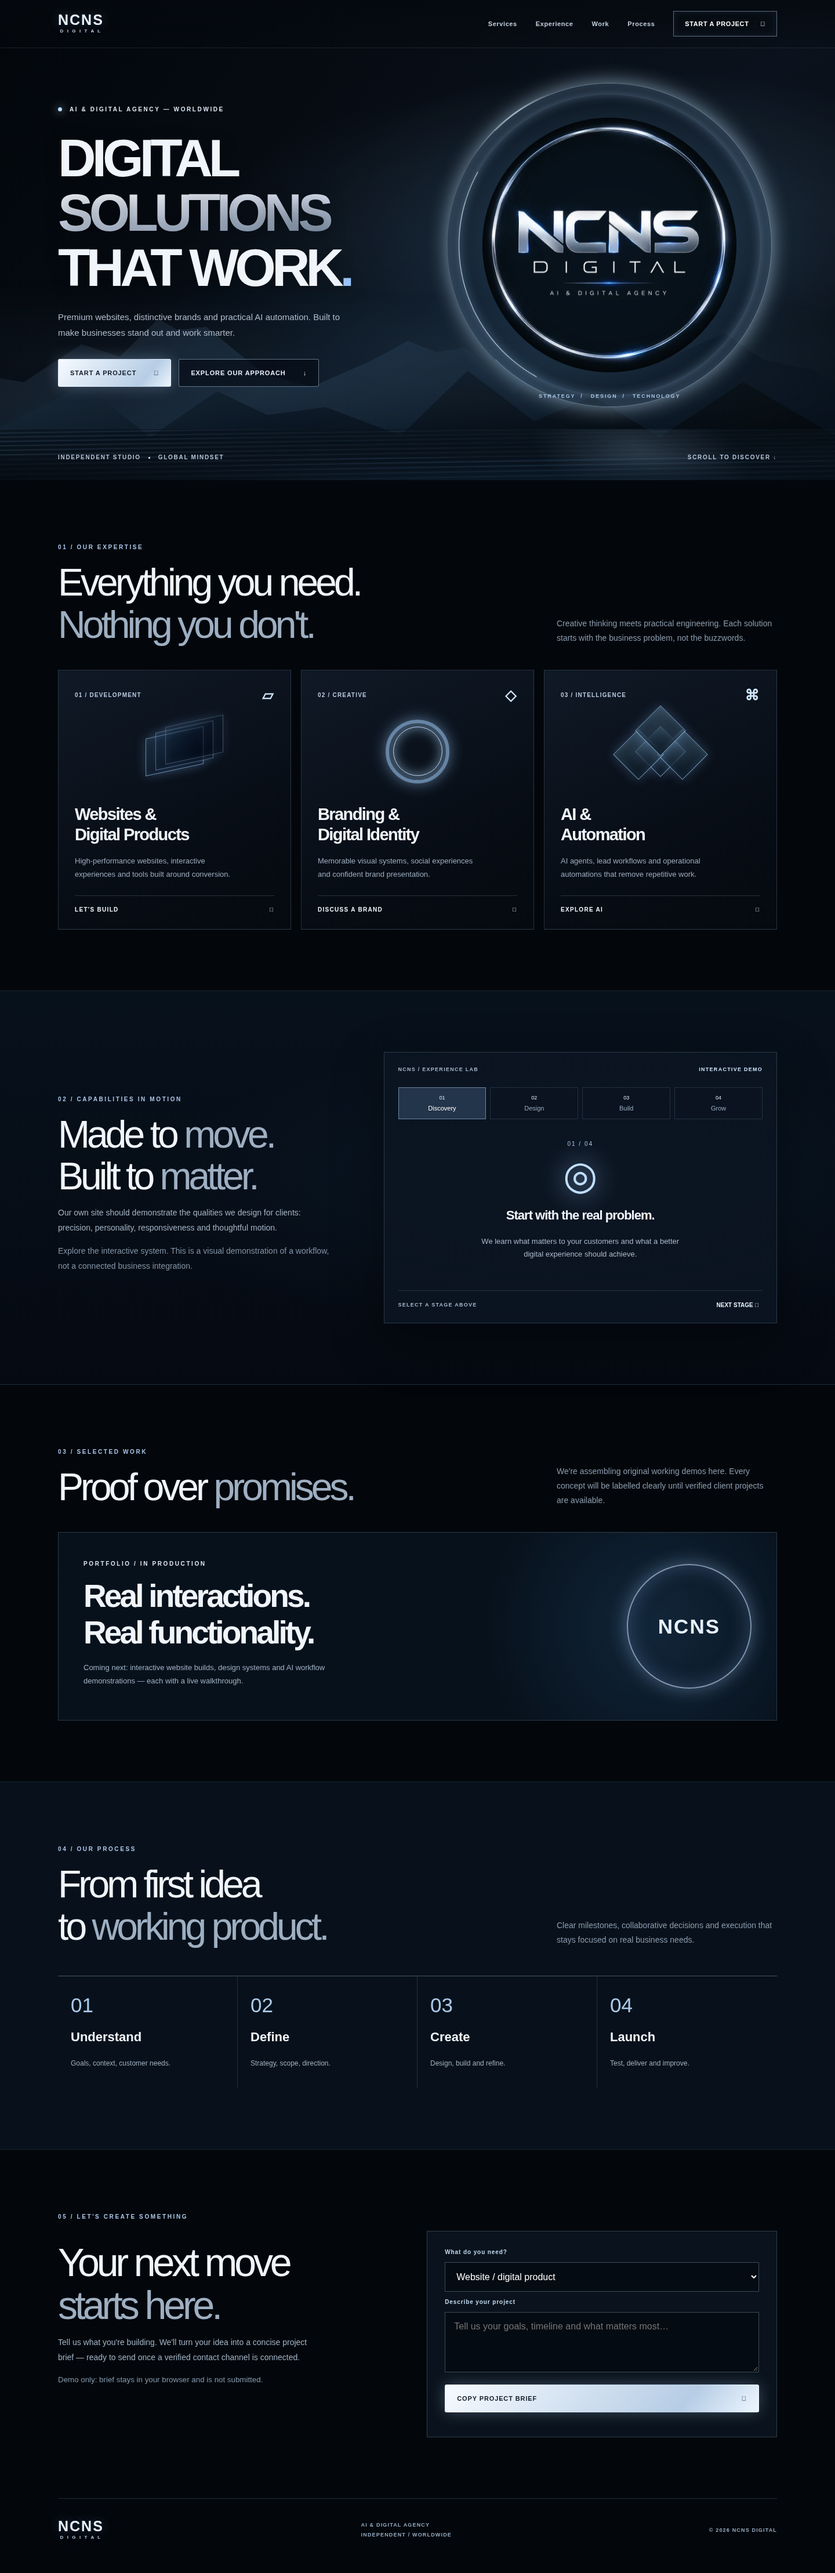
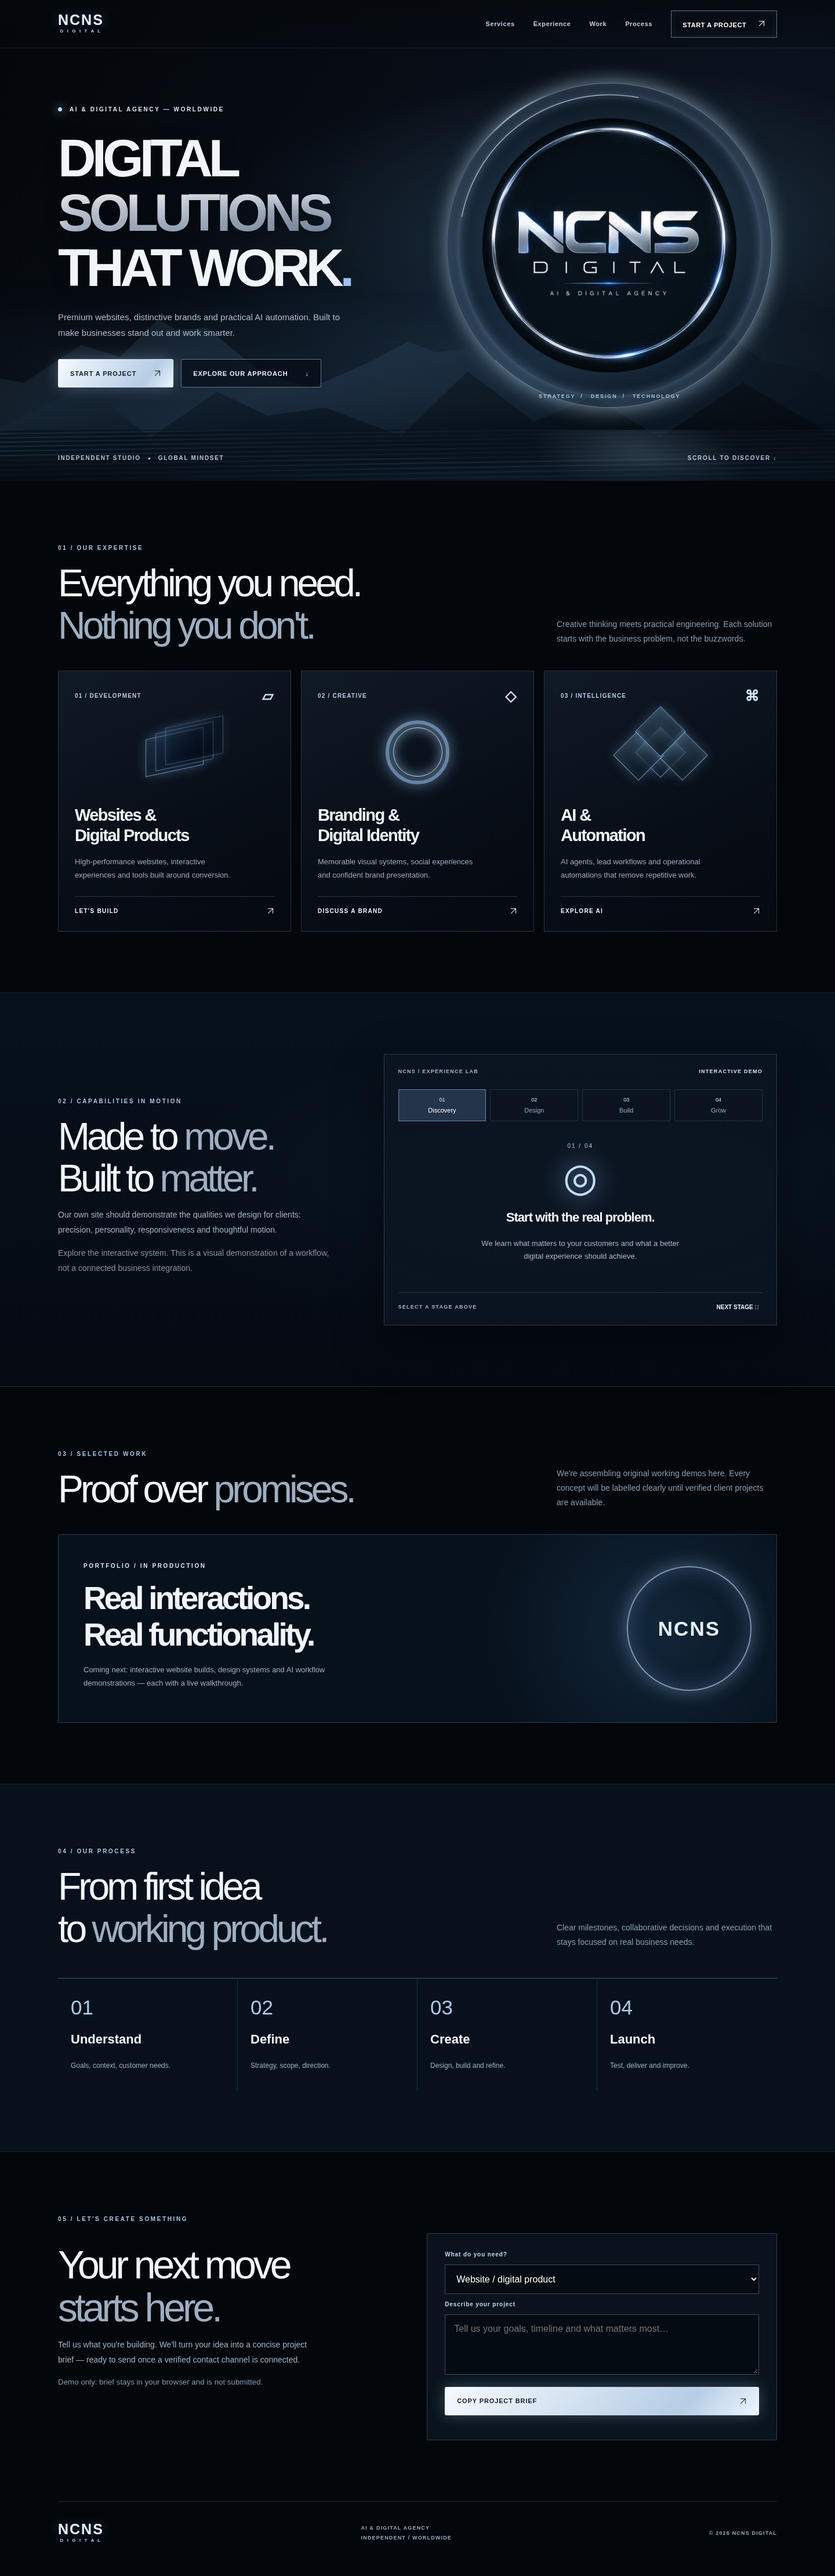
Use font-independent SVG arrows in calls to action

diff --git a/index.html b/index.html
@@ -21,7 +21,7 @@
     <button type="button" class="menu-toggle" id="menuToggle" aria-expanded="false" aria-controls="primaryNavigation" aria-label="Open navigation"><span></span><span></span></button>
     <nav class="nav-links" id="primaryNavigation" aria-label="Primary navigation">
       <a href="#services">Services</a><a href="#experience">Experience</a><a href="#work">Work</a><a href="#process">Process</a>
-      <a href="#contact" class="nav-contact">START A PROJECT <span aria-hidden="true">↗</span></a>
+      <a href="#contact" class="nav-contact">START A PROJECT <svg class="arrow-icon" viewBox="0 0 16 16" fill="none" aria-hidden="true"><path d="M3 13 13 3M3 3h10v10"/></svg></a>
     </nav>
   </header>
   <main id="mainContent" tabindex="-1">
@@ -34,7 +34,7 @@
           <span class="eyebrow"><span class="status-dot"></span> AI &amp; DIGITAL AGENCY — WORLDWIDE</span>
           <h1 id="heroTitle"><span>DIGITAL</span><span class="silver">SOLUTIONS</span><span>THAT WORK<span class="period">.</span></span></h1>
           <p>Premium websites, distinctive brands and practical AI automation. Built to make businesses stand out and work smarter.</p>
-          <div class="hero-actions"><a class="button primary" href="#contact">START A PROJECT <span aria-hidden="true">↗</span></a><a class="button outline" href="#experience">EXPLORE OUR APPROACH <span aria-hidden="true">↓</span></a></div>
+          <div class="hero-actions"><a class="button primary" href="#contact">START A PROJECT <svg class="arrow-icon" viewBox="0 0 16 16" fill="none" aria-hidden="true"><path d="M3 13 13 3M3 3h10v10"/></svg></a><a class="button outline" href="#experience">EXPLORE OUR APPROACH <span aria-hidden="true">↓</span></a></div>
         </div>
         <div class="hero-orbit" aria-label="NCNS Digital metallic brand emblem with animated halo" id="heroOrbit">
           <div class="orbital-field" aria-hidden="true"></div>
@@ -48,16 +48,16 @@
     <section id="services" class="services section container" aria-labelledby="servicesTitle">
       <div class="section-heading reveal"><div><span class="eyebrow blue">01 / OUR EXPERTISE</span><h2 id="servicesTitle">Everything you need.<br /><em>Nothing you don't.</em></h2></div><p>Creative thinking meets practical engineering. Each solution starts with the business problem, not the buzzwords.</p></div>
       <div class="service-grid">
-        <a href="#contact" class="service-card reveal"><div class="service-top"><span>01 / DEVELOPMENT</span><span class="service-icon">▱</span></div><div class="service-art web-art" aria-hidden="true"><i></i><i></i><i></i></div><h3>Websites &amp;<br />Digital Products</h3><p>High-performance websites, interactive experiences and tools built around conversion.</p><span class="service-link">LET'S BUILD <b aria-hidden="true">↗</b></span></a>
-        <a href="#contact" class="service-card reveal"><div class="service-top"><span>02 / CREATIVE</span><span class="service-icon">◇</span></div><div class="service-art brand-art" aria-hidden="true"><i></i><i></i></div><h3>Branding &amp;<br />Digital Identity</h3><p>Memorable visual systems, social experiences and confident brand presentation.</p><span class="service-link">DISCUSS A BRAND <b aria-hidden="true">↗</b></span></a>
-        <a href="#contact" class="service-card reveal"><div class="service-top"><span>03 / INTELLIGENCE</span><span class="service-icon">⌘</span></div><div class="service-art ai-art" aria-hidden="true"><i></i><i></i><i></i><i></i></div><h3>AI &amp;<br />Automation</h3><p>AI agents, lead workflows and operational automations that remove repetitive work.</p><span class="service-link">EXPLORE AI <b aria-hidden="true">↗</b></span></a>
+        <a href="#contact" class="service-card reveal"><div class="service-top"><span>01 / DEVELOPMENT</span><span class="service-icon">▱</span></div><div class="service-art web-art" aria-hidden="true"><i></i><i></i><i></i></div><h3>Websites &amp;<br />Digital Products</h3><p>High-performance websites, interactive experiences and tools built around conversion.</p><span class="service-link">LET'S BUILD <svg class="arrow-icon" viewBox="0 0 16 16" fill="none" aria-hidden="true"><path d="M3 13 13 3M3 3h10v10"/></svg></span></a>
+        <a href="#contact" class="service-card reveal"><div class="service-top"><span>02 / CREATIVE</span><span class="service-icon">◇</span></div><div class="service-art brand-art" aria-hidden="true"><i></i><i></i></div><h3>Branding &amp;<br />Digital Identity</h3><p>Memorable visual systems, social experiences and confident brand presentation.</p><span class="service-link">DISCUSS A BRAND <svg class="arrow-icon" viewBox="0 0 16 16" fill="none" aria-hidden="true"><path d="M3 13 13 3M3 3h10v10"/></svg></span></a>
+        <a href="#contact" class="service-card reveal"><div class="service-top"><span>03 / INTELLIGENCE</span><span class="service-icon">⌘</span></div><div class="service-art ai-art" aria-hidden="true"><i></i><i></i><i></i><i></i></div><h3>AI &amp;<br />Automation</h3><p>AI agents, lead workflows and operational automations that remove repetitive work.</p><span class="service-link">EXPLORE AI <svg class="arrow-icon" viewBox="0 0 16 16" fill="none" aria-hidden="true"><path d="M3 13 13 3M3 3h10v10"/></svg></span></a>
       </div>
     </section>
     <section id="experience" class="experience section" aria-labelledby="experienceTitle"><div class="container experience-layout"><div class="experience-copy reveal"><span class="eyebrow blue">02 / CAPABILITIES IN MOTION</span><h2 id="experienceTitle">Made to <em>move.</em><br />Built to <em>matter.</em></h2><p>Our own site should demonstrate the qualities we design for clients: precision, personality, responsiveness and thoughtful motion.</p><p class="muted">Explore the interactive system. This is a visual demonstration of a workflow, not a connected business integration.</p></div>
       <div class="workflow reveal"><div class="workflow-title"><span>NCNS / EXPERIENCE LAB</span><span class="live-indicator">INTERACTIVE DEMO</span></div><div class="workflow-track" id="workflowSteps"><button type="button" data-step="0" class="active"><span>01</span> Discovery</button><button type="button" data-step="1"><span>02</span> Design</button><button type="button" data-step="2"><span>03</span> Build</button><button type="button" data-step="3"><span>04</span> Grow</button></div><div class="workflow-view"><span class="workflow-count" id="workflowCount">01 / 04</span><div class="workflow-glyph" id="workflowGlyph" aria-hidden="true">◎</div><h3 id="workflowHeading">Start with the real problem.</h3><p id="workflowDescription">We learn what matters to your customers and what a better digital experience should achieve.</p></div><div class="workflow-bottom"><span>SELECT A STAGE ABOVE</span><button type="button" id="nextStep">NEXT STAGE ↗</button></div></div></div></section>
     <section id="work" class="work section container"><div class="section-heading reveal"><div><span class="eyebrow blue">03 / SELECTED WORK</span><h2>Proof over <em>promises.</em></h2></div><p>We're assembling original working demos here. Every concept will be labelled clearly until verified client projects are available.</p></div><div class="work-placeholder reveal"><div><span class="eyebrow">PORTFOLIO / IN PRODUCTION</span><h3>Real interactions.<br />Real functionality.</h3><p>Coming next: interactive website builds, design systems and AI workflow demonstrations — each with a live walkthrough.</p></div><div class="placeholder-orbit" aria-hidden="true"><span>NCNS</span></div></div></section>
     <section id="process" class="process section"><div class="container"><div class="section-heading reveal"><div><span class="eyebrow blue">04 / OUR PROCESS</span><h2>From first idea<br />to <em>working product.</em></h2></div><p>Clear milestones, collaborative decisions and execution that stays focused on real business needs.</p></div><div class="process-grid"><div class="process-item reveal"><b>01</b><h3>Understand</h3><p>Goals, context, customer needs.</p></div><div class="process-item reveal"><b>02</b><h3>Define</h3><p>Strategy, scope, direction.</p></div><div class="process-item reveal"><b>03</b><h3>Create</h3><p>Design, build and refine.</p></div><div class="process-item reveal"><b>04</b><h3>Launch</h3><p>Test, deliver and improve.</p></div></div></div></section>
-    <section id="contact" class="contact section container"><span class="eyebrow blue reveal">05 / LET'S CREATE SOMETHING</span><div class="contact-layout"><div class="reveal"><h2>Your next move<br /><em>starts here.</em></h2><p>Tell us what you're building. We'll turn your idea into a concise project brief — ready to send once a verified contact channel is connected.</p><small>Demo only: brief stays in your browser and is not submitted.</small></div><form class="brief reveal" id="briefForm"><label for="projectType">What do you need?</label><select id="projectType"><option>Website / digital product</option><option>Branding / social identity</option><option>AI automation</option><option>Something else</option></select><label for="projectDetails">Describe your project</label><textarea id="projectDetails" maxlength="1200" rows="4" placeholder="Tell us your goals, timeline and what matters most…"></textarea><button class="button primary" type="submit">COPY PROJECT BRIEF <span aria-hidden="true">↗</span></button><div class="form-status" id="formStatus" role="status" aria-live="polite"></div></form></div></section>
+    <section id="contact" class="contact section container"><span class="eyebrow blue reveal">05 / LET'S CREATE SOMETHING</span><div class="contact-layout"><div class="reveal"><h2>Your next move<br /><em>starts here.</em></h2><p>Tell us what you're building. We'll turn your idea into a concise project brief — ready to send once a verified contact channel is connected.</p><small>Demo only: brief stays in your browser and is not submitted.</small></div><form class="brief reveal" id="briefForm"><label for="projectType">What do you need?</label><select id="projectType"><option>Website / digital product</option><option>Branding / social identity</option><option>AI automation</option><option>Something else</option></select><label for="projectDetails">Describe your project</label><textarea id="projectDetails" maxlength="1200" rows="4" placeholder="Tell us your goals, timeline and what matters most…"></textarea><button class="button primary" type="submit">COPY PROJECT BRIEF <svg class="arrow-icon" viewBox="0 0 16 16" fill="none" aria-hidden="true"><path d="M3 13 13 3M3 3h10v10"/></svg></button><div class="form-status" id="formStatus" role="status" aria-live="polite"></div></form></div></section>
   </main>
   <footer class="footer container"><a class="wordmark" href="#top"><span>NCNS</span><small>D I G I T A L</small></a><div><span>AI &amp; DIGITAL AGENCY</span><span>INDEPENDENT / WORLDWIDE</span></div><span>© 2026 NCNS DIGITAL</span></footer>
 </body>

diff --git a/styles.css b/styles.css
@@ -31,3 +31,5 @@ section[id],main[id]{scroll-margin-top:24px}
 @media(max-width:800px){.hero-inner{padding-top:38px}.hero-copy{padding-top:26px}.hero-orbit{min-height:0}.hero-landscape{height:43%}.nav-links a{padding-block:8px}.menu-toggle{min-width:48px;min-height:48px}.hero-copy .eyebrow{font-size:9px;letter-spacing:.18em}}
 @media(max-width:520px){.site-nav{height:76px;padding-inline:16px}.nav-links{top:75px}.hero-inner{padding-top:25px}.hero-copy h1{font-size:clamp(44px,12.6vw,65px);letter-spacing:-.065em}.hero-copy p{max-width:350px}.hero-orbit{height:310px;margin-top:16px}.orbit-label{font-size:8px}.hero-bottom{align-items:start;line-height:1.8}.hero-bottom>span{max-width:160px}.hero-bottom a{text-align:right}.service-card{padding:25px;min-height:395px}.service-art{margin-block:24px 32px}}
 @media(prefers-reduced-motion:reduce){.hero-mist,.water-reflection,.orbit-ring.outer::after{animation:none!important}.service-card:hover,.service-card:hover .service-art,.service-card:focus-visible .service-art,.button:hover{transform:none}}
+
+.arrow-icon{width:13px;height:13px;flex-shrink:0;stroke:currentColor;stroke-width:1.25;stroke-linecap:round;stroke-linejoin:round}.nav-contact .arrow-icon{margin-left:16px}
